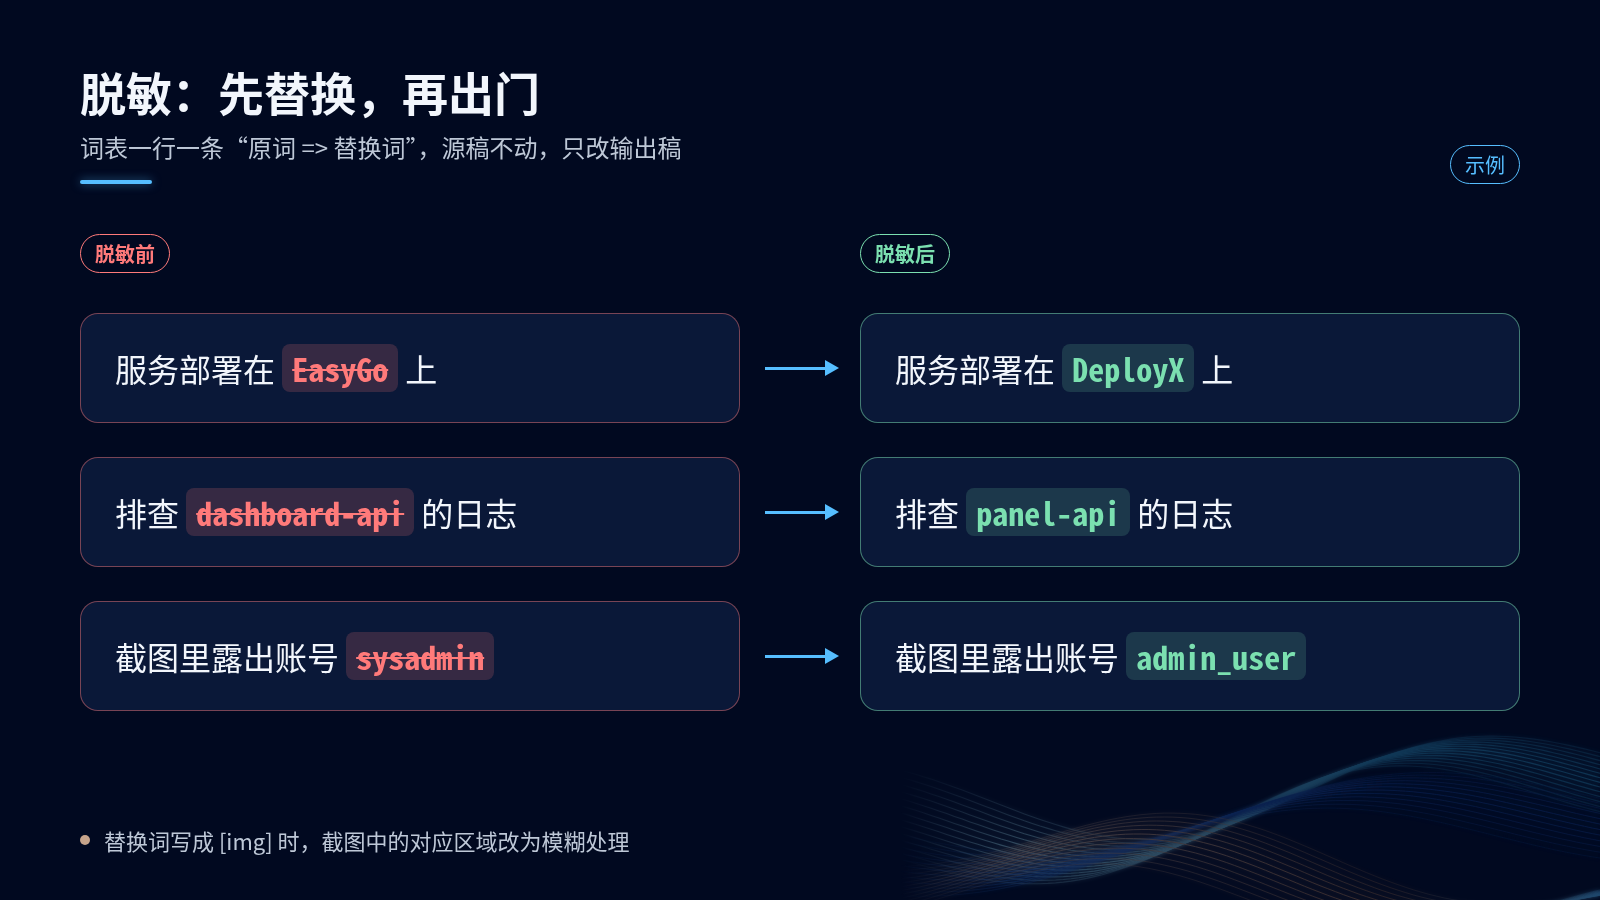
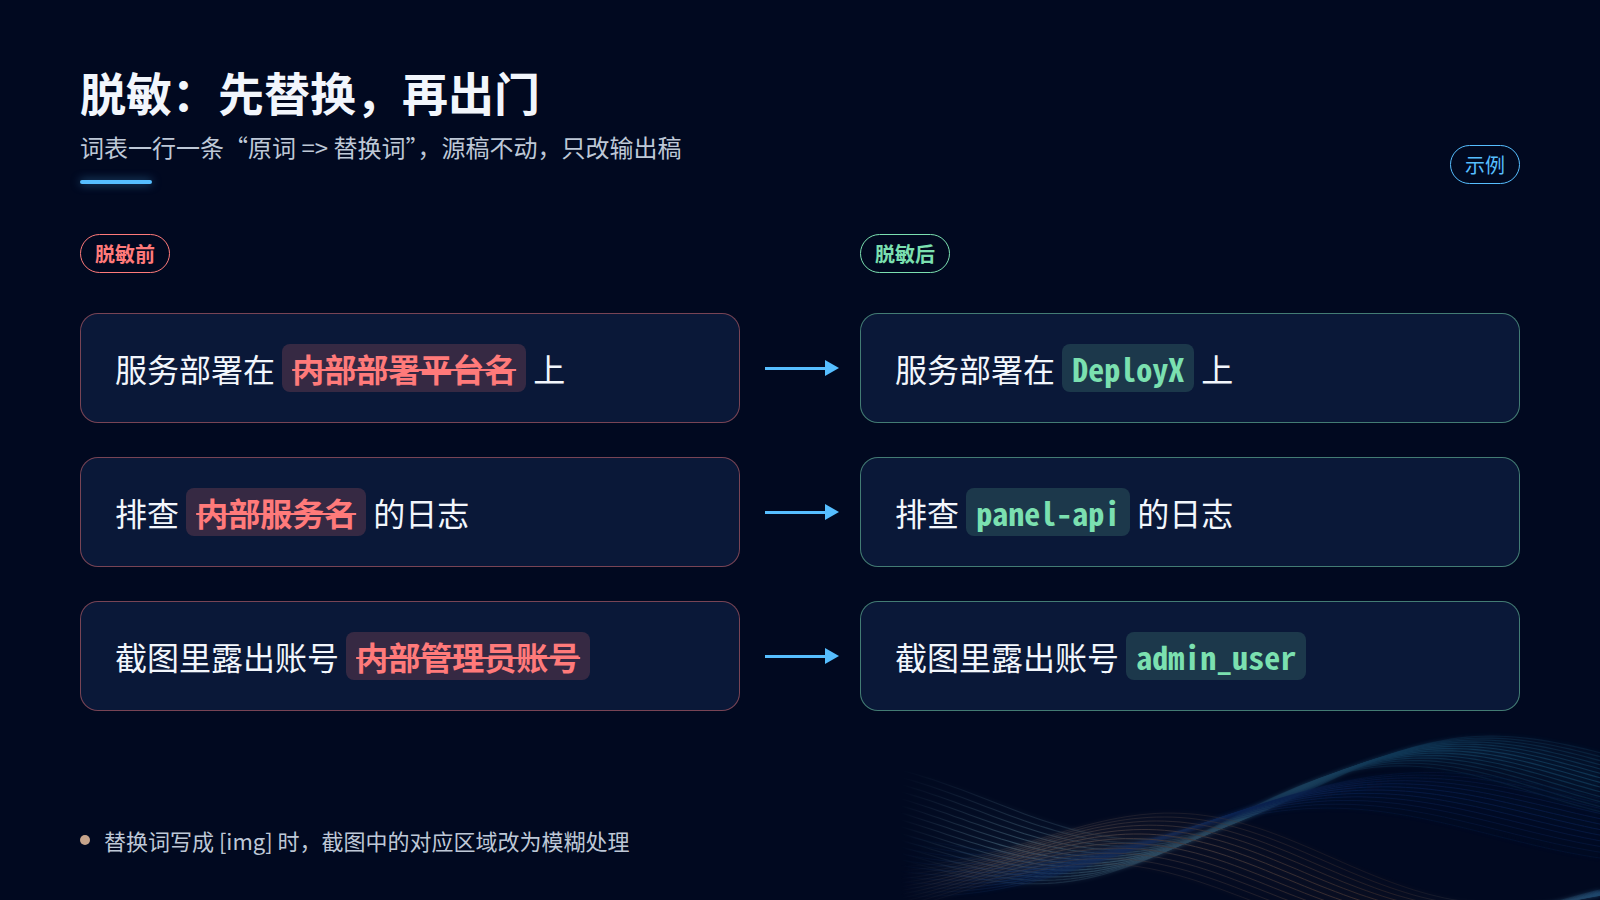
脱敏并润色自动流水线测试稿 (#4)
按词表替换后写出 x/article.md，比较图规格的脱敏前列改为泛化占位，并重渲该图。

diff --git a/articles/2026-10-20-x-auto-draft-pipeline/x/article.md b/articles/2026-10-20-x-auto-draft-pipeline/x/article.md
@@ -1,0 +1,101 @@
+---
+title: "写完就有草稿：我把“文章 → X 草稿”做成了一条自动流水线"
+subtitle: "脱敏、润色、封面、建草稿全自动，发布留给人"
+date: 2026-10-20
+tags:
+  - 软件工程
+  - 知识工程
+---
+
+# 写完就有草稿：我把“文章 → X 草稿”做成了一条自动流水线
+
+写技术文章最累的往往不是写，而是写完之后。还要检查有没有把内部信息带出去，按平台习惯改一遍措辞，做封面，再复制粘贴到编辑器，结果格式全乱了。每篇文章都要重来一遍，这种重复劳动正是该交给 Agent 的事。
+
+于是我搭了一条流水线。我只管在仓库里写 Markdown，剩下的从脱敏、润色到生成 X Articles 草稿，全部自动完成。最后一步“发布”，永远留给人。这篇文章本身，就是这条流水线的第一篇测试稿。
+
+![整体流水线：从 Markdown 源稿到 X 草稿的各个环节](../pic/01-pipeline-overview.png)
+
+## 源头：一个私有仓库，一种固定结构
+
+所有原稿都放在一个私有 GitHub 仓库 deep-engineering 里。约定很简单：每篇文章一个目录，目录名带日期。
+
+```text
+deep-engineering/
+├── articles/
+│   └── YYYY-MM-DD-title/
+│       ├── article.md
+│       ├── pic/
+│       └── cover.png
+└── skills/
+    ├── desensitize/   # config/sensitive-words.txt
+    ├── polish/        # config/polish-rules.md
+    └── cover-gen/     # config/style-prompt.md
+```
+
+articles 下是内容，skills 下是能力。每个 skill 把“规则”放在 config 里，包括脱敏词表、润色规则和封面风格提示词。想调整行为时改配置就行，不用动流程本身。这一点对团队很重要：写作者不需要懂流水线，只需要知道规则写在哪。
+
+## 八个步骤，各管一件事
+
+整条流水线拆成八步。每一步只做一件事，出了问题也容易定位。
+
+第一步是变更检测。系统把仓库里的文章和一份状态文件做对比，找出新增或更新过的文章。没变的直接跳过。这样流水线可以放心地定时跑，不会重复生成。
+
+第二步是脱敏。文字和图片都要处理，后面单独展开。
+
+第三步是润色。原稿通常是写给同事看的，术语密、节奏快。X 上的读者需要更清晰的开头，也需要更短的段落。润色规则写在 polish-rules.md 里，Agent 按规则改写，而不是自由发挥。
+
+第四步是平台限制检查。X Articles 有不少隐性约束：代码块大约有一万个加权字符的上限，中日韩字符按 2 计；不支持嵌套列表；三级标题最好别用。超长的文章会被自动拆成多篇。
+
+第五步是生成 1500×600 的封面。风格由 style-prompt.md 统一控制，保证系列文章看起来像一家人。
+
+第六步是通过 X API 创建 Articles 草稿，认证走 OAuth 2.0 PKCE。这里有个容易踩的坑：上传的媒体 24 小时后过期。所以图片上传和草稿创建必须放在同一轮里完成。
+
+第七步是校验。要确认草稿的标题、段落和图片都齐了。
+
+第八步通知作者。这次处理结果会写回状态文件，供下一轮变更检测使用。
+
+## 脱敏：先替换，再出门
+
+技术文章最容易出事的地方，是不经意间带出来的内部信息。比如我写部署经验时会顺手提到 DeployX，排查问题时会贴出 panel-api 的日志，截图里还可能露出 admin_user 这样的账号名。对自己人来说，这些再平常不过。对外发布时，就是风险。
+
+所以脱敏是流水线里最早处理内容的一步。规则放在 sensitive-words.txt 里，格式是一行一条 `原词 => 替换词`。文字部分直接替换。如果替换词写成 `[img]`，就表示这个词出现在截图里时要做模糊处理，而不是简单地改字。
+
+这个设计的关键在于：词表是集中维护的。新人不需要记住“哪些名字不能说”。只要词表在，流水线每次都会兜底。
+
+![脱敏前后对比：敏感词被替换，截图中的敏感区域被模糊](../pic/02-desensitize.png)
+
+## 分工：人、调度助手和云端 Agent
+
+这条流水线里有三个角色。边界划得很清楚。
+
+调度助手（Grok Bot）负责“什么时候做、做到哪了”。定时、记忆、触发、校验和通知都归它。它记得上次处理到哪篇文章，知道什么时候该叫醒下一步。
+
+Cursor 云端 Agent 负责“改仓库”。对文章和配置的所有修改都以 PR 的形式提交，可以审查，也可以回滚。Agent 再聪明，改动也要留痕。
+
+人负责最后一公里。具体是看草稿、点发布。
+
+![分工示意：调度助手管节奏，云端 Agent 提 PR，人负责发布](../pic/03-division-of-labor.png)
+
+这种分工的好处是，每个角色都只拿到它需要的权限。调度助手不直接改代码，云端 Agent 不碰发布。人不用再做重复劳动。
+
+## 只建草稿，发布永远是人的事
+
+我给流水线定了一条硬规则。它只能创建草稿，绝不自动发布。
+
+原因很朴素。发出去的内容代表的是我本人，语气、时机、要不要发，都需要人来判断。自动化可以把准备工作做到 99%，最后那 1% 的判断不能让渡。这也是我在团队里培训编码 Agent 时反复强调的：让 Agent 做可撤回的事，把不可撤回的事留给人。
+
+![只建草稿：流水线把稿子送进草稿箱，发布按钮由人来按](../pic/04-draft-only-human-publish.png)
+
+## 踩过的坑
+
+第一个坑是仓库可见性。最早仓库是公开的。后来意识到，原稿和真实敏感词表本身就是敏感信息，一旦公开，脱敏就失去了意义。现在仓库已改为私有，原文和词表都不进任何公开位置。
+
+第二个坑是草稿管理。X 目前没有列出或删除草稿的 API。流水线一旦重复创建，就只能人工去清理。所以变更检测和状态文件必须可靠，宁可漏跑一次，也不要重复建稿。
+
+第三个坑是长度。有一篇长文超过了平台限制，最终被拆成了 3 篇。拆分不能只按字数硬切，要按章节自然断开，并在每篇开头说明是系列的第几部分。
+
+## 写在最后
+
+这条流水线没有用到什么复杂技术。真正起作用的是三件事：规则集中放在配置里，每一步只做一件事，不可撤回的动作永远留给人。
+
+如果你也在用 Agent 搭自己的内容工作流，不妨从“只建草稿”开始。先让机器把准备工作做好，再决定要不要把更多环节交出去。

diff --git a/articles/2026-10-20-x-auto-draft-pipeline/x/report.md b/articles/2026-10-20-x-auto-draft-pipeline/x/report.md
@@ -1,0 +1,79 @@
+# 文本阶段报告
+
+- 文章目录：`articles/2026-10-20-x-auto-draft-pipeline/`
+- 词表：`skills/desensitize/config/sensitive-words.txt`（本报告只记行号和次数，不抄录原词）
+- 润色规则：`skills/polish/config/polish-rules.md`
+- 原稿 `article.md` 未修改
+- 润色稿：`x/article.md`
+
+## 替换计数
+
+匹配按词表原文、大小写敏感、长词优先。含汉字的原词按子串；不含汉字的原词要求前后是开头、结尾，或不是字母和数字。同一处只计更长的原词。替换只写进 `x/article.md`。
+
+词表共 18 条（文件第 2–19 行）。正文命中如下：
+
+- 第 2 行：0
+- 第 3 行：0
+- 第 4 行：0
+- 第 5 行：0
+- 第 6 行：1（正文）
+- 第 7 行：0
+- 第 8 行：0
+- 第 9 行：0
+- 第 10 行：0
+- 第 11 行：0
+- 第 12 行：0
+- 第 13 行：0
+- 第 14 行：1（正文）
+- 第 15 行：0
+- 第 16 行：0
+- 第 17 行：1（正文）
+- 第 18 行：0（替换词为空，并标了图片打码；正文未出现，无遗留）
+- 第 19 行：0
+
+正文合计 3 处，都已换成对应替换词。没有待人工复核的空替换。
+
+另外用全小写、全大写、仅首字母大写扫过原稿，没有词表原文之外的变体命中。
+
+规格 `02-desensitize.json` 的 before 列原先有 3 处词表原词，与上面第 6、14、17 行是同一批。公开图不能出现原词，所以 before 列改成泛化占位：`内部部署平台名`、`内部服务名`、`内部管理员账号`。after 列保持原规格。00、01、03、04 没有词表原词。
+
+## 润色
+
+- 文首补了 README 要求的 `title`、`subtitle`、`date`、`tags`。`title` 与正文 H1 相同。`subtitle` 用的是这篇已有封面规格里的那一句，没有另加事实。`date` 为 `2026-10-20`。标签是「软件工程」「知识工程」。
+- 三处专名替换后句子仍然完整，论证顺序没变。
+- 逗号拉长的句子拆成一段 2 到 4 句。节首的「三个角色」「硬规则」拆成两句，没有补原文没有的事实或数字。
+- 第七步和第八步分成两段。第五步、第六步补上「是」，和前面各步对齐。
+- 标题只保留一个 H1 和若干 H2，没有 H3。没有嵌套列表，没有表格。
+- 目录树仍放在 `text` 围栏里，内容没改。它是需要等宽对齐的结构，不是规范附件。
+- 四张图的替代文本没改，路径改为从 `x/` 能解析的 `../pic/*.png`。
+- 未拆篇。没有系列衔接句。
+
+## 篇幅
+
+- 全文 Unicode 字符（含文首 YAML）：2837
+- 正文 Unicode 字符（不含文首 YAML）：2713
+- 围栏内部加权字符：280（CJK 统一表意文字、CJK 标点、全角字符按 2，其余按 1；不计围栏标记那一行）
+- 正文图片：4（封面不计入）
+
+三个限度都在上限以内：加权代码远低于约 10000，正文远低于约 25000，图片少于约 15 张。
+
+## 图片
+
+已重渲。本环境里无头 Chrome 会把 PNG 写完但进程不退出，仓库里的 `render.py batch` 因此会在 120 秒超时。第一次直接运行停在封面那一步，封面已从 git 恢复。之后等截图文件大小稳定再结束 Chrome，同一条 batch 命令跑完。
+
+- `cover.png`、`pic/01-pipeline-overview.png`：与已提交文件字节相同，未产生差异。
+- `pic/02-desensitize.png`：已按新规格重渲。before 列是三处泛化占位，after 列仍是规格里的替换结果。尺寸 1600×900。
+- `pic/03-division-of-labor.png`、`pic/04-draft-only-human-publish.png`：规格未改。重渲结果只有亚像素差异，已恢复为已提交文件，避免无关的图片噪声。
+
+`render.py` 本身没有改。
+
+## 复扫
+
+范围：`articles/2026-10-20-x-auto-draft-pipeline/x/` 与 `skills/cover-gen/render/specs/2026-10-20-x-auto-draft-pipeline/` 下的文本。不扫描原稿 `article.md`，也不扫描词表文件。
+
+做法：读取词表每一条原词，按上面的边界规则在这两个目录里检索；并另检索全小写、全大写、仅首字母大写。对文章目录里的 PNG 再查这些原词的 UTF-8 字节。
+
+- 文本命中数：0
+- 大小写变体命中数：0
+- PNG 字节命中数：0
+- 结论：通过。
